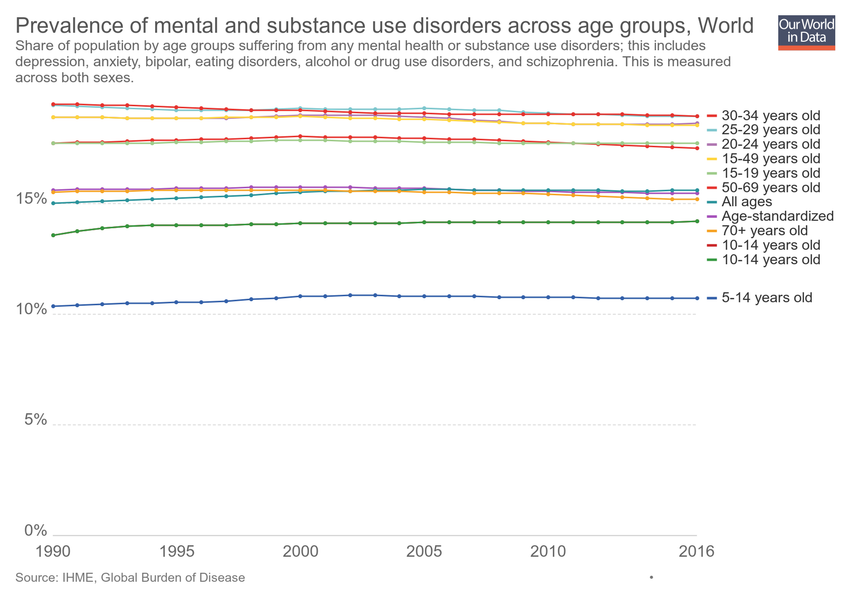
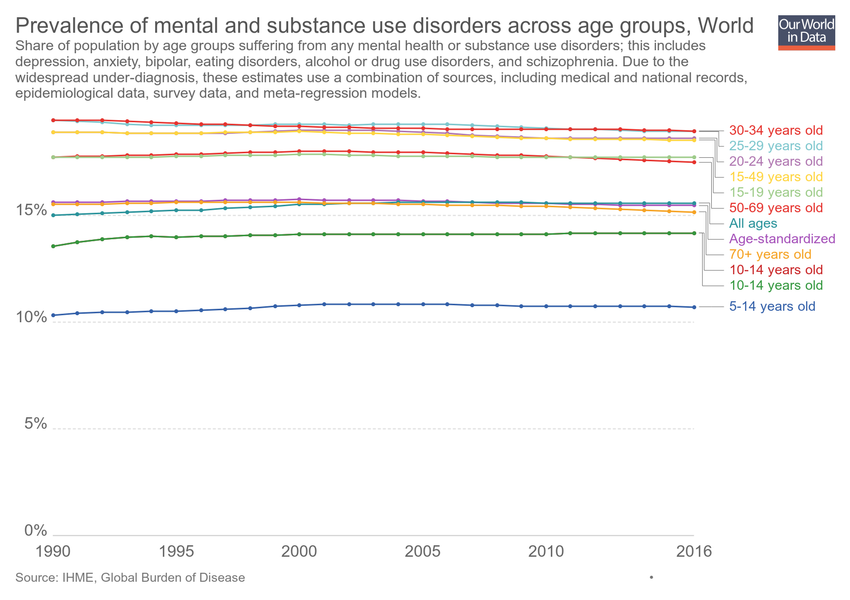
Updating chart prevalence-of-mental-and-substance-disorders-by-age

diff --git a/grapher/prevalence-of-mental-and-substance-disorders-by-age.html b/grapher/prevalence-of-mental-and-substance-disorders-by-age.html
@@ -1,4 +1,4 @@
-<!doctype html><html><head><meta name="viewport" content="width=device-width, initial-scale=1" /><title>Prevalence of mental and substance use disorders across age groups - Our World in Data</title><meta name="description" content="Share of population by age groups suffering from any mental health or substance use disorders; this includes depression, anxiety, bipolar, eating disorders, alcohol or drug use disorders, and schizophrenia. This is measured across both sexes." /><link rel="canonical" href="https://ourworldindata.org/grapher/prevalence-of-mental-and-substance-disorders-by-age" /><meta property="fb:app_id" content="1149943818390250" /><meta property="og:url" content="https://ourworldindata.org/grapher/prevalence-of-mental-and-substance-disorders-by-age" /><meta property="og:title" content="Prevalence of mental and substance use disorders across age groups" /><meta property="og:description" content="Share of population by age groups suffering from any mental health or substance use disorders; this includes depression, anxiety, bipolar, eating disorders, alcohol or drug use disorders, and schizophrenia. This is measured across both sexes." /><meta property="og:image" content="https://ourworldindata.org/grapher/exports/prevalence-of-mental-and-substance-disorders-by-age.png?v=1" /><meta property="og:image:width" content="850" /><meta property="og:image:height" content="600" /><meta property="og:site_name" content="Our World in Data" /><meta name="twitter:card" content="summary_large_image" /><meta name="twitter:site" content="@OurWorldInData" /><meta name="twitter:creator" content="@OurWorldInData" /><meta name="twitter:title" content="Prevalence of mental and substance use disorders across age groups" /><meta name="twitter:description" content="Share of population by age groups suffering from any mental health or substance use disorders; this includes depression, anxiety, bipolar, eating disorders, alcohol or drug use disorders, and schizophrenia. This is measured across both sexes." /><meta name="twitter:image" content="https://ourworldindata.org/grapher/exports/prevalence-of-mental-and-substance-disorders-by-age.png?v=1" /><style>
+<!doctype html><html><head><meta name="viewport" content="width=device-width, initial-scale=1" /><title>Prevalence of mental and substance use disorders across age groups - Our World in Data</title><meta name="description" content="Share of population by age groups suffering from any mental health or substance use disorders; this includes depression, anxiety, bipolar, eating disorders, alcohol or drug use disorders, and schizophrenia. Due to the widespread under-diagnosis, these estimates use a combination of sources, including medical and national records, epidemiological data, survey data, and meta-regression models." /><link rel="canonical" href="https://ourworldindata.org/grapher/prevalence-of-mental-and-substance-disorders-by-age" /><meta property="fb:app_id" content="1149943818390250" /><meta property="og:url" content="https://ourworldindata.org/grapher/prevalence-of-mental-and-substance-disorders-by-age" /><meta property="og:title" content="Prevalence of mental and substance use disorders across age groups" /><meta property="og:description" content="Share of population by age groups suffering from any mental health or substance use disorders; this includes depression, anxiety, bipolar, eating disorders, alcohol or drug use disorders, and schizophrenia. Due to the widespread under-diagnosis, these estimates use a combination of sources, including medical and national records, epidemiological data, survey data, and meta-regression models." /><meta property="og:image" content="https://ourworldindata.org/grapher/exports/prevalence-of-mental-and-substance-disorders-by-age.png?v=2" /><meta property="og:image:width" content="850" /><meta property="og:image:height" content="600" /><meta property="og:site_name" content="Our World in Data" /><meta name="twitter:card" content="summary_large_image" /><meta name="twitter:site" content="@OurWorldInData" /><meta name="twitter:creator" content="@OurWorldInData" /><meta name="twitter:title" content="Prevalence of mental and substance use disorders across age groups" /><meta name="twitter:description" content="Share of population by age groups suffering from any mental health or substance use disorders; this includes depression, anxiety, bipolar, eating disorders, alcohol or drug use disorders, and schizophrenia. Due to the widespread under-diagnosis, these estimates use a combination of sources, including medical and national records, epidemiological data, survey data, and meta-regression models." /><meta name="twitter:image" content="https://ourworldindata.org/grapher/exports/prevalence-of-mental-and-substance-disorders-by-age.png?v=2" /><style>
         html, body {
             height: 100%;
             margin: 0;
@@ -20,8 +20,8 @@
         }
     </style><noscript><style>
                     figure { display: none !important; }
-                </style></noscript><link rel="stylesheet" href="https://ourworldindata.org/grapher/assets/commons.bundle.dcbbe53805c487d5e57617b10ac73a8a.css" /><link rel="preload" href="/grapher/data/variables/85135+85162+85153+85171+85180+85144+85216+85198+85189+85207+85222.json?v=1" as="fetch" crossorigin /></head><body class="singleChart"><figure data-grapher-src="/grapher/prevalence-of-mental-and-substance-disorders-by-age"></figure><noscript id="fallback"><img src="/grapher/exports/prevalence-of-mental-and-substance-disorders-by-age.svg" /><p>Interactive visualization requires JavaScript</p></noscript><script src="https://cdn.polyfill.io/v2/polyfill.min.js?features=es6,fetch"></script><script src="https://ourworldindata.org/grapher/assets/commons.bundle.da523acc49807a06a11f.js"></script><script src="https://ourworldindata.org/grapher/assets/charts.bundle.da523acc49807a06a11f.js"></script><script>
-        var jsonConfig = {"map":{"projection":"World","colorSchemeLabels":[],"colorSchemeValues":[],"defaultProjection":"World","colorSchemeMinValue":0,"customNumericColors":[],"customCategoryColors":{},"customCategoryLabels":{},"customHiddenCategories":{}},"tab":"chart","slug":"prevalence-of-mental-and-substance-disorders-by-age","type":"LineChart","title":"Prevalence of mental and substance use disorders across age groups","xAxis":{"scaleType":"linear"},"yAxis":{"min":0,"scaleType":"linear"},"version":1,"subtitle":"Share of population by age groups suffering from any mental health or substance use disorders; this includes depression, anxiety, bipolar, eating disorders, alcohol or drug use disorders, and schizophrenia. This is measured across both sexes.","hasMapTab":false,"stackMode":"absolute","dimensions":[{"display":{"name":"10-14 years old","unit":"%"},"property":"y","variableId":85135},{"display":{"name":"25-29 years old","unit":"%"},"property":"y","variableId":85162},{"display":{"name":"20-24 years old","unit":"%"},"property":"y","variableId":85153},{"display":{"name":"30-34 years old","unit":"%"},"property":"y","variableId":85171},{"display":{"name":"10-14 years old","unit":"%"},"property":"y","variableId":85135},{"display":{"name":"All ages","unit":"%"},"property":"y","variableId":85180},{"display":{"name":"15-19 years old","unit":"%"},"property":"y","variableId":85144},{"display":{"name":"70+ years old","unit":"%"},"property":"y","variableId":85216},{"display":{"name":"15-49 years old","unit":"%"},"property":"y","variableId":85198},{"display":{"name":"5-14 years old","unit":"%"},"property":"y","variableId":85189},{"display":{"name":"50-69 years old","unit":"%"},"property":"y","variableId":85207},{"display":{"name":"Age-standardized","unit":"%"},"property":"y","variableId":85222}],"sourceDesc":"IHME, Global Burden of Disease","hasChartTab":true,"isPublished":true,"selectedData":[{"index":0,"entityId":355},{"index":1,"entityId":355},{"index":10,"entityId":355},{"index":11,"entityId":355},{"index":2,"entityId":355},{"index":3,"entityId":355},{"index":4,"entityId":355},{"index":5,"entityId":355},{"index":6,"entityId":355},{"index":7,"entityId":355},{"index":8,"entityId":355},{"index":9,"entityId":355}],"addCountryMode":"change-country","id":2138};
+                </style></noscript><link rel="stylesheet" href="https://ourworldindata.org/grapher/assets/commons.bundle.dcbbe53805c487d5e57617b10ac73a8a.css" /><link rel="preload" href="/grapher/data/variables/85135+85162+85153+85171+85180+85144+85216+85198+85189+85207+85222.json?v=2" as="fetch" crossorigin /></head><body class="singleChart"><figure data-grapher-src="/grapher/prevalence-of-mental-and-substance-disorders-by-age"></figure><noscript id="fallback"><img src="/grapher/exports/prevalence-of-mental-and-substance-disorders-by-age.svg" /><p>Interactive visualization requires JavaScript</p></noscript><script src="https://cdn.polyfill.io/v2/polyfill.min.js?features=es6,fetch"></script><script src="https://ourworldindata.org/grapher/assets/commons.bundle.da523acc49807a06a11f.js"></script><script src="https://ourworldindata.org/grapher/assets/charts.bundle.da523acc49807a06a11f.js"></script><script>
+        var jsonConfig = {"id":2138,"map":{"projection":"World","colorSchemeLabels":[],"colorSchemeValues":[],"colorSchemeMinValue":0,"customNumericColors":[],"customCategoryColors":{},"customCategoryLabels":{},"customHiddenCategories":{}},"tab":"chart","slug":"prevalence-of-mental-and-substance-disorders-by-age","type":"LineChart","title":"Prevalence of mental and substance use disorders across age groups","xAxis":{"scaleType":"linear"},"yAxis":{"min":0,"scaleType":"linear"},"version":2,"subtitle":"Share of population by age groups suffering from any mental health or substance use disorders; this includes depression, anxiety, bipolar, eating disorders, alcohol or drug use disorders, and schizophrenia. Due to the widespread under-diagnosis, these estimates use a combination of sources, including medical and national records, epidemiological data, survey data, and meta-regression models.","hasMapTab":false,"stackMode":"absolute","dimensions":[{"display":{"name":"10-14 years old","unit":"%"},"property":"y","variableId":85135},{"display":{"name":"25-29 years old","unit":"%"},"property":"y","variableId":85162},{"display":{"name":"20-24 years old","unit":"%"},"property":"y","variableId":85153},{"display":{"name":"30-34 years old","unit":"%"},"property":"y","variableId":85171},{"display":{"name":"10-14 years old","unit":"%"},"property":"y","variableId":85135},{"display":{"name":"All ages","unit":"%"},"property":"y","variableId":85180},{"display":{"name":"15-19 years old","unit":"%"},"property":"y","variableId":85144},{"display":{"name":"70+ years old","unit":"%"},"property":"y","variableId":85216},{"display":{"name":"15-49 years old","unit":"%"},"property":"y","variableId":85198},{"display":{"name":"5-14 years old","unit":"%"},"property":"y","variableId":85189},{"display":{"name":"50-69 years old","unit":"%"},"property":"y","variableId":85207},{"display":{"name":"Age-standardized","unit":"%"},"property":"y","variableId":85222}],"sourceDesc":"IHME, Global Burden of Disease","hasChartTab":true,"isPublished":true,"selectedData":[{"index":0,"entityId":355},{"index":1,"entityId":355},{"index":10,"entityId":355},{"index":11,"entityId":355},{"index":2,"entityId":355},{"index":3,"entityId":355},{"index":4,"entityId":355},{"index":5,"entityId":355},{"index":6,"entityId":355},{"index":7,"entityId":355},{"index":8,"entityId":355},{"index":9,"entityId":355}],"addCountryMode":"change-country"};
         var figure = document.getElementsByTagName("figure")[0];
         try {
             window.App = {};

diff --git a/grapher/number-with-mental-and-substance-use-disorders.html b/grapher/number-with-mental-and-substance-use-disorders.html
@@ -1,4 +1,4 @@
-<!doctype html><html><head><meta name="viewport" content="width=device-width, initial-scale=1" /><title>Number of people with mental and substance use disorders - Our World in Data</title><meta name="description" content="Number of people (differentiated by sex) with any mental health or substance use disorders; this includes depression, anxiety, bipolar, eating disorders, alcohol or drug use disorders, and schizophrenia." /><link rel="canonical" href="https://ourworldindata.org/grapher/number-with-mental-and-substance-use-disorders" /><meta property="fb:app_id" content="1149943818390250" /><meta property="og:url" content="https://ourworldindata.org/grapher/number-with-mental-and-substance-use-disorders" /><meta property="og:title" content="Number of people with mental and substance use disorders" /><meta property="og:description" content="Number of people (differentiated by sex) with any mental health or substance use disorders; this includes depression, anxiety, bipolar, eating disorders, alcohol or drug use disorders, and schizophrenia." /><meta property="og:image" content="https://ourworldindata.org/grapher/exports/number-with-mental-and-substance-use-disorders.png?v=2" /><meta property="og:image:width" content="850" /><meta property="og:image:height" content="600" /><meta property="og:site_name" content="Our World in Data" /><meta name="twitter:card" content="summary_large_image" /><meta name="twitter:site" content="@OurWorldInData" /><meta name="twitter:creator" content="@OurWorldInData" /><meta name="twitter:title" content="Number of people with mental and substance use disorders" /><meta name="twitter:description" content="Number of people (differentiated by sex) with any mental health or substance use disorders; this includes depression, anxiety, bipolar, eating disorders, alcohol or drug use disorders, and schizophrenia." /><meta name="twitter:image" content="https://ourworldindata.org/grapher/exports/number-with-mental-and-substance-use-disorders.png?v=2" /><style>
+<!doctype html><html><head><meta name="viewport" content="width=device-width, initial-scale=1" /><title>Number of people with mental and substance use disorders - Our World in Data</title><meta name="description" content="Number of people (differentiated by sex) with any mental health or substance use disorders; this includes depression, anxiety, bipolar, eating disorders, alcohol or drug use disorders, and schizophrenia. Due to the widespread under-diagnosis, these estimates use a combination of sources, including medical and national records, epidemiological data, survey data, and meta-regression models." /><link rel="canonical" href="https://ourworldindata.org/grapher/number-with-mental-and-substance-use-disorders" /><meta property="fb:app_id" content="1149943818390250" /><meta property="og:url" content="https://ourworldindata.org/grapher/number-with-mental-and-substance-use-disorders" /><meta property="og:title" content="Number of people with mental and substance use disorders" /><meta property="og:description" content="Number of people (differentiated by sex) with any mental health or substance use disorders; this includes depression, anxiety, bipolar, eating disorders, alcohol or drug use disorders, and schizophrenia. Due to the widespread under-diagnosis, these estimates use a combination of sources, including medical and national records, epidemiological data, survey data, and meta-regression models." /><meta property="og:image" content="https://ourworldindata.org/grapher/exports/number-with-mental-and-substance-use-disorders.png?v=3" /><meta property="og:image:width" content="850" /><meta property="og:image:height" content="600" /><meta property="og:site_name" content="Our World in Data" /><meta name="twitter:card" content="summary_large_image" /><meta name="twitter:site" content="@OurWorldInData" /><meta name="twitter:creator" content="@OurWorldInData" /><meta name="twitter:title" content="Number of people with mental and substance use disorders" /><meta name="twitter:description" content="Number of people (differentiated by sex) with any mental health or substance use disorders; this includes depression, anxiety, bipolar, eating disorders, alcohol or drug use disorders, and schizophrenia. Due to the widespread under-diagnosis, these estimates use a combination of sources, including medical and national records, epidemiological data, survey data, and meta-regression models." /><meta name="twitter:image" content="https://ourworldindata.org/grapher/exports/number-with-mental-and-substance-use-disorders.png?v=3" /><style>
         html, body {
             height: 100%;
             margin: 0;
@@ -20,8 +20,8 @@
         }
     </style><noscript><style>
                     figure { display: none !important; }
-                </style></noscript><link rel="stylesheet" href="https://ourworldindata.org/grapher/assets/commons.bundle.dcbbe53805c487d5e57617b10ac73a8a.css" /><link rel="preload" href="/grapher/data/variables/85175+85176.json?v=2" as="fetch" crossorigin /></head><body class="singleChart"><figure data-grapher-src="/grapher/number-with-mental-and-substance-use-disorders"></figure><noscript id="fallback"><img src="/grapher/exports/number-with-mental-and-substance-use-disorders.svg" /><p>Interactive visualization requires JavaScript</p></noscript><script src="https://cdn.polyfill.io/v2/polyfill.min.js?features=es6,fetch"></script><script src="https://ourworldindata.org/grapher/assets/commons.bundle.da523acc49807a06a11f.js"></script><script src="https://ourworldindata.org/grapher/assets/charts.bundle.da523acc49807a06a11f.js"></script><script>
-        var jsonConfig = {"id":2139,"map":{"projection":"World","colorSchemeLabels":[],"colorSchemeValues":[],"defaultProjection":"World","colorSchemeMinValue":0,"customNumericColors":[],"customCategoryColors":{},"customCategoryLabels":{},"customHiddenCategories":{}},"tab":"chart","slug":"number-with-mental-and-substance-use-disorders","type":"StackedArea","title":"Number of people with mental and substance use disorders","xAxis":{"scaleType":"linear"},"yAxis":{"min":0,"scaleType":"linear"},"version":2,"subtitle":"Number of people (differentiated by sex) with any mental health or substance use disorders; this includes depression, anxiety, bipolar, eating disorders, alcohol or drug use disorders, and schizophrenia.","hasMapTab":false,"stackMode":"absolute","dimensions":[{"display":{"name":"Males","unit":"number suffering"},"property":"y","variableId":85175},{"display":{"name":"Females","unit":"number suffering"},"property":"y","variableId":85176}],"sourceDesc":"IHME, Global Burden of Disease","hasChartTab":true,"isPublished":true,"selectedData":[{"color":"#818282","index":1,"entityId":355},{"color":"#3360a9","index":0,"entityId":355}],"addCountryMode":"change-country"};
+                </style></noscript><link rel="stylesheet" href="https://ourworldindata.org/grapher/assets/commons.bundle.dcbbe53805c487d5e57617b10ac73a8a.css" /><link rel="preload" href="/grapher/data/variables/85175+85176.json?v=3" as="fetch" crossorigin /></head><body class="singleChart"><figure data-grapher-src="/grapher/number-with-mental-and-substance-use-disorders"></figure><noscript id="fallback"><img src="/grapher/exports/number-with-mental-and-substance-use-disorders.svg" /><p>Interactive visualization requires JavaScript</p></noscript><script src="https://cdn.polyfill.io/v2/polyfill.min.js?features=es6,fetch"></script><script src="https://ourworldindata.org/grapher/assets/commons.bundle.da523acc49807a06a11f.js"></script><script src="https://ourworldindata.org/grapher/assets/charts.bundle.da523acc49807a06a11f.js"></script><script>
+        var jsonConfig = {"id":2139,"map":{"projection":"World","colorSchemeLabels":[],"colorSchemeValues":[],"colorSchemeMinValue":0,"customNumericColors":[],"customCategoryColors":{},"customCategoryLabels":{},"customHiddenCategories":{}},"tab":"chart","slug":"number-with-mental-and-substance-use-disorders","type":"StackedArea","title":"Number of people with mental and substance use disorders","xAxis":{"scaleType":"linear"},"yAxis":{"min":0,"scaleType":"linear"},"version":3,"subtitle":"Number of people (differentiated by sex) with any mental health or substance use disorders; this includes depression, anxiety, bipolar, eating disorders, alcohol or drug use disorders, and schizophrenia. Due to the widespread under-diagnosis, these estimates use a combination of sources, including medical and national records, epidemiological data, survey data, and meta-regression models.","hasMapTab":false,"stackMode":"absolute","dimensions":[{"display":{"name":"Males","unit":"number suffering"},"property":"y","variableId":85175},{"display":{"name":"Females","unit":"number suffering"},"property":"y","variableId":85176}],"sourceDesc":"IHME, Global Burden of Disease","hasChartTab":true,"isPublished":true,"selectedData":[{"color":"#818282","index":1,"entityId":355},{"color":"#3360a9","index":0,"entityId":355}],"addCountryMode":"change-country"};
         var figure = document.getElementsByTagName("figure")[0];
         try {
             window.App = {};
